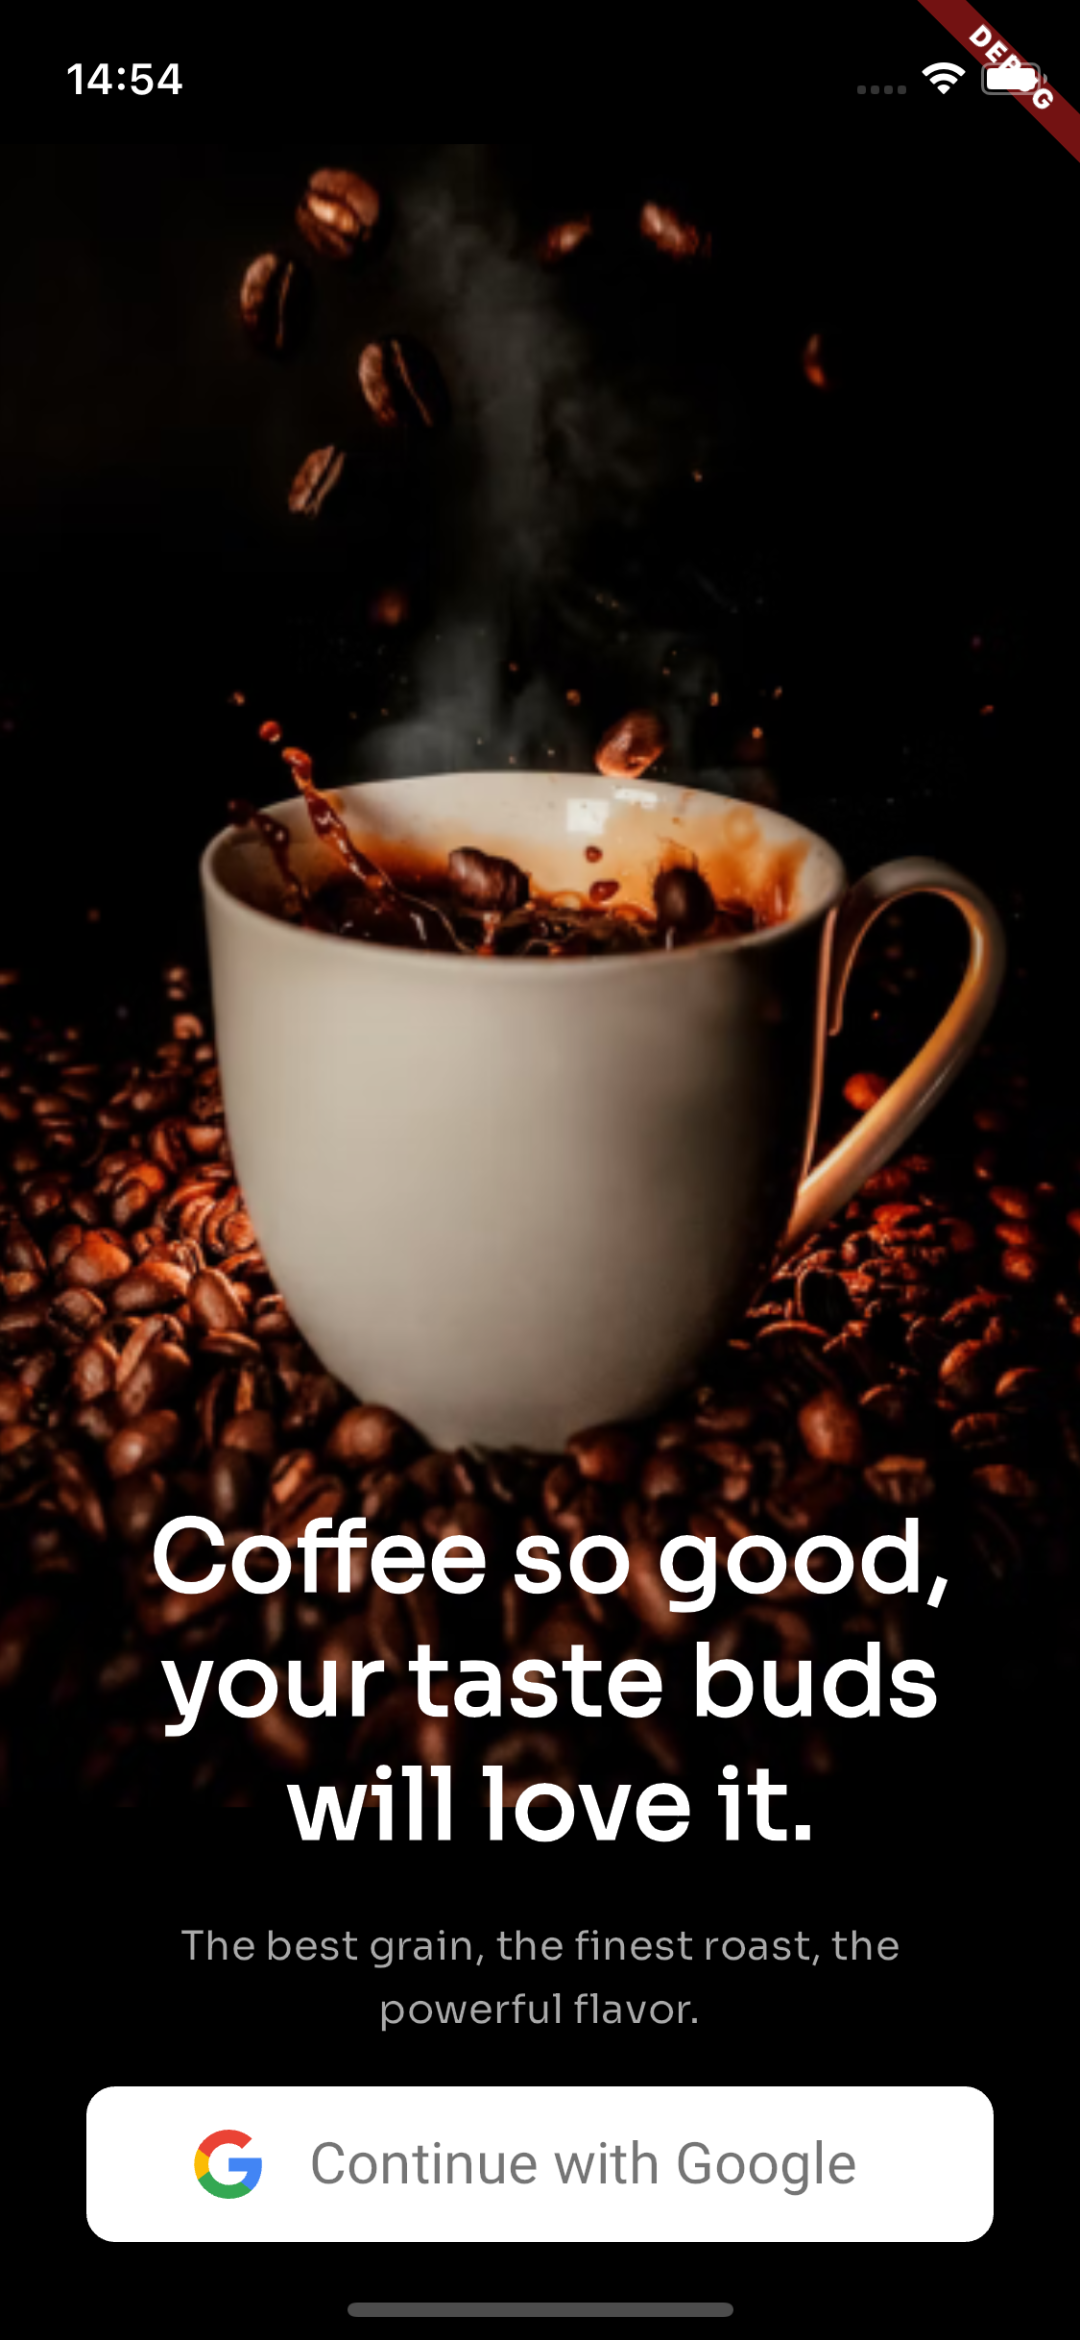
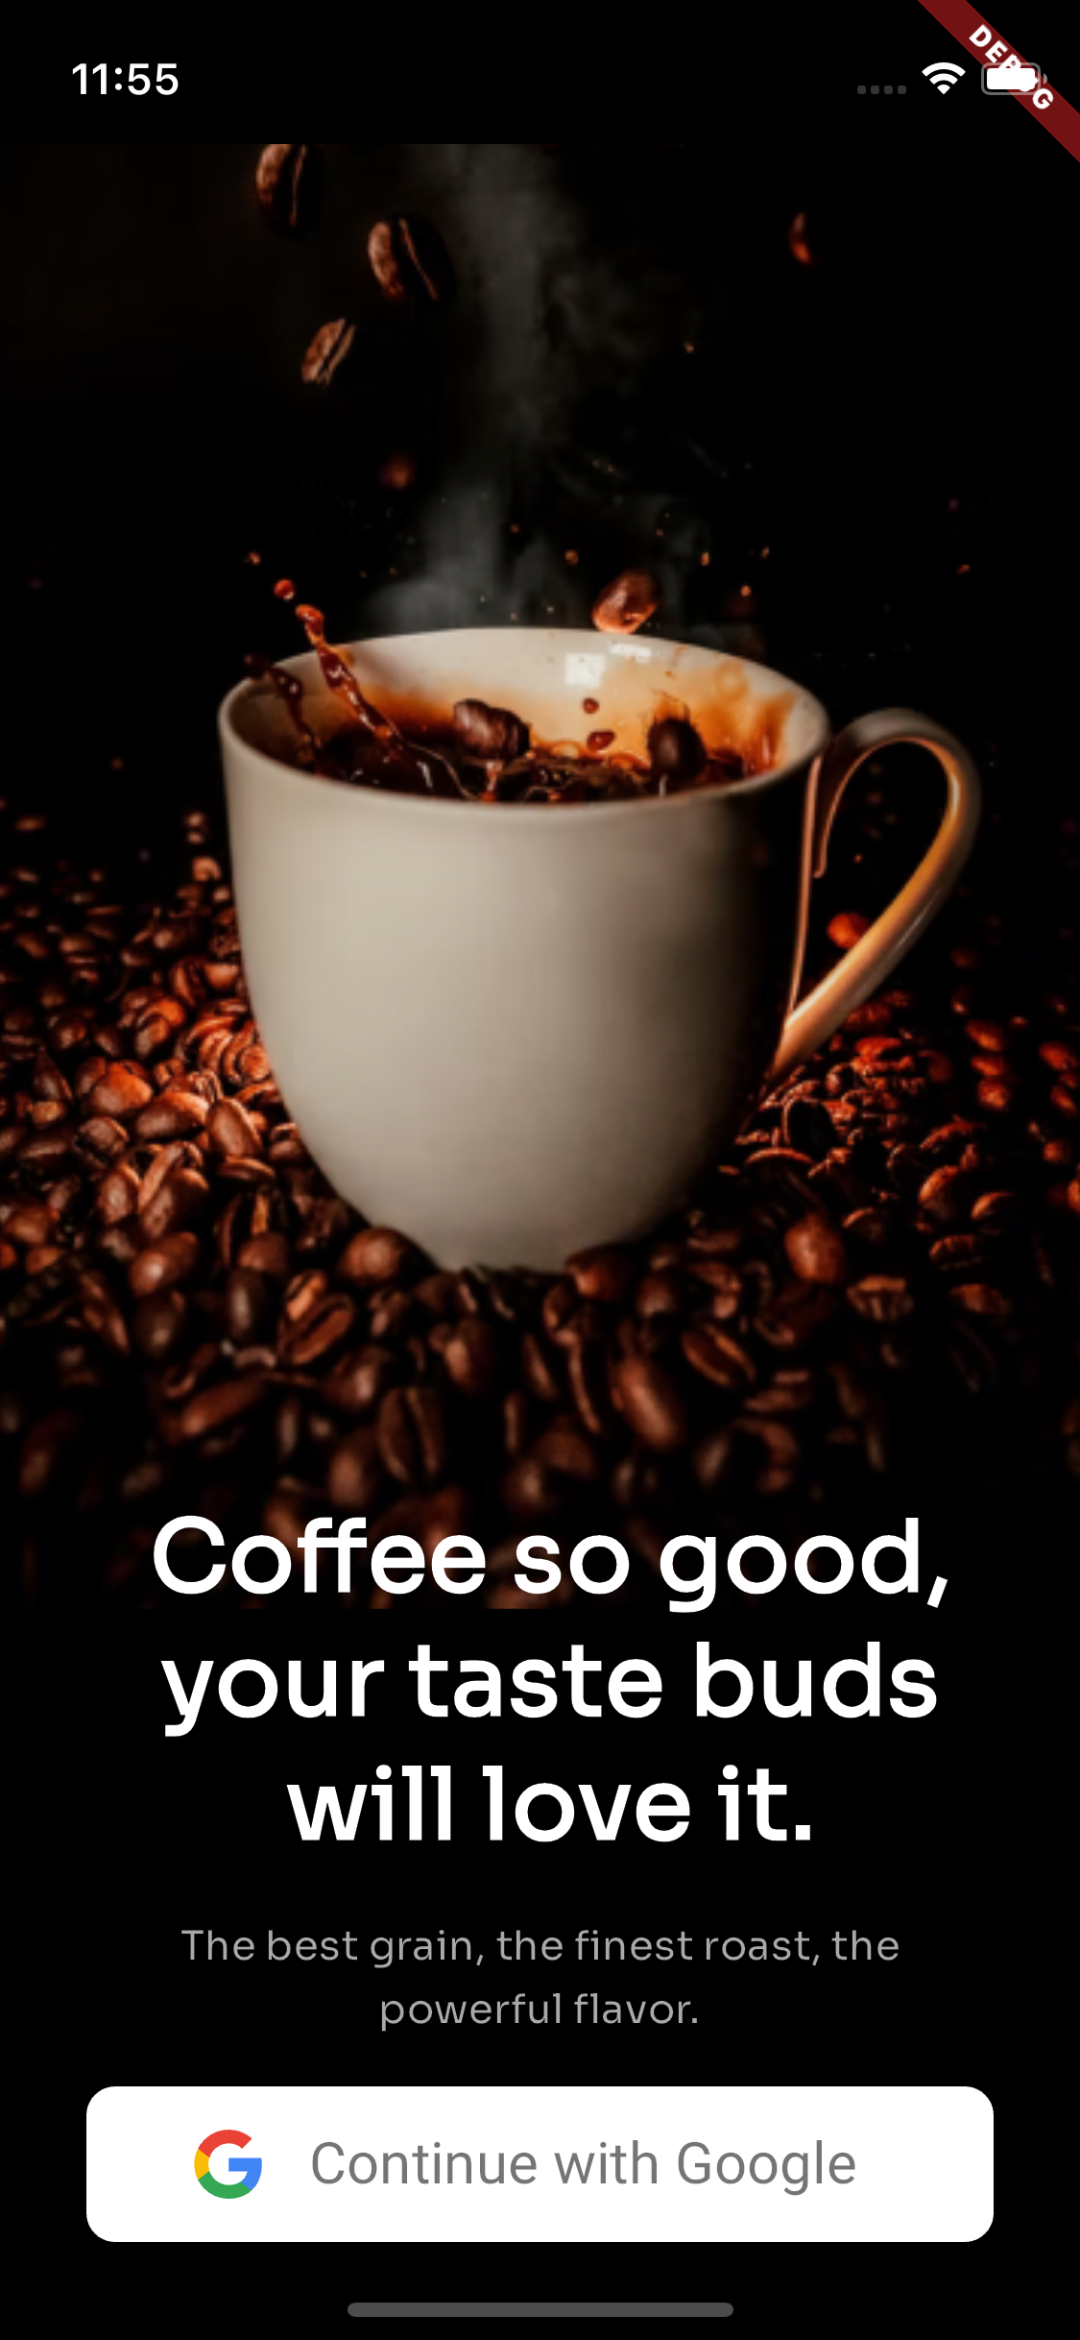
update background image

diff --git a/lib/views/login/bone/login_background_image.dart b/lib/views/login/bone/login_background_image.dart
@@ -15,8 +15,8 @@ class LoginBackgroundImage extends StatelessWidget {
             children: [
               Align(
                 alignment: Alignment.bottomCenter,
-                heightFactor: .70,
-                widthFactor: .90,
+                heightFactor: .50,
+                widthFactor: .95,
                 child: Center(
                   child: Image.asset(AppImages.coffeeSoGood.png),
                 ),
